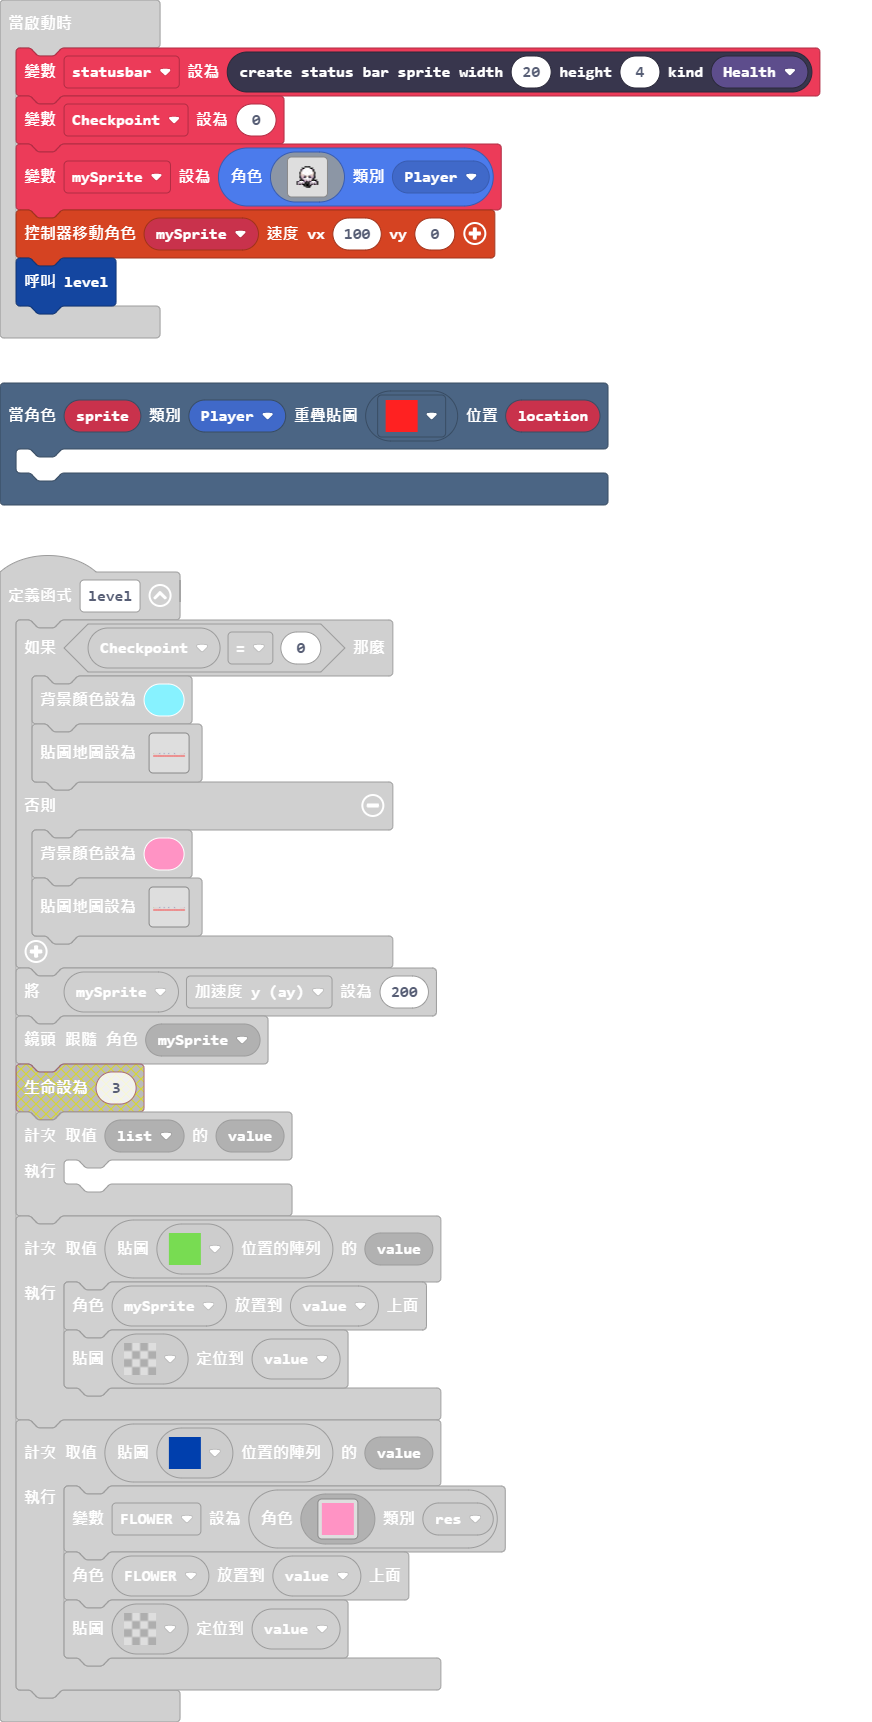
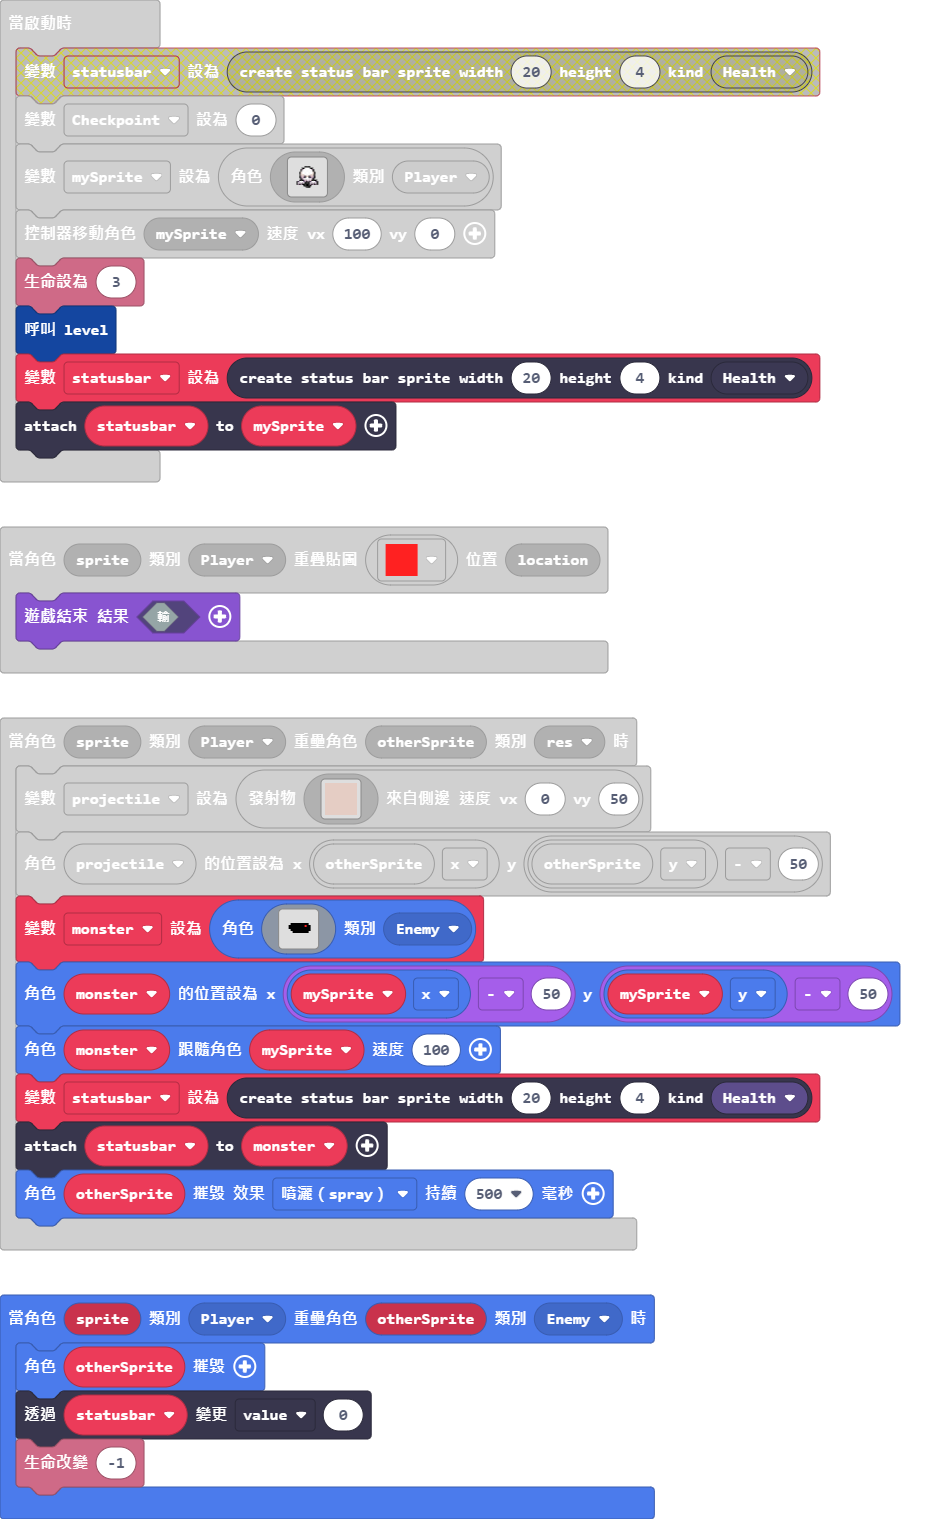
更新 main.blocks, main.ts

diff --git a/main.ts b/main.ts
@@ -48,7 +48,7 @@ function level () {
     }
 }
 scene.onOverlapTile(SpriteKind.Player, assets.tile`myTile3`, function (sprite, location) {
-	
+    game.over(false)
 })
 sprites.onOverlap(SpriteKind.Player, SpriteKind.Projectile, function (sprite, otherSprite) {
     otherSprite.destroy()
@@ -78,13 +78,41 @@ sprites.onOverlap(SpriteKind.Player, SpriteKind.res, function (sprite, otherSpri
         d d d d d d d d d d d d d d d d 
         `, 0, 50)
     projectile.setPosition(otherSprite.x, otherSprite.y - 50)
+    monster = sprites.create(img`
+        . . . . . . . . . . . . . . . . 
+        . . . . . . . . . . . . . . . . 
+        . . . . . . . . . . . . . . . . 
+        . . . . . . . . . . . . . . . . 
+        . . . . . . . . . . . . . . . . 
+        . . . . f f f f f f f f f . . . 
+        . . . f f f f f f f f 2 f f . . 
+        . . . f f f f f f f f f f f . . 
+        . . . . f f f f f f f f f f . . 
+        . . . . . f f f f f f f f . . . 
+        . . . . . . . . . . . . . . . . 
+        . . . . . . . . . . . . . . . . 
+        . . . . . . . . . . . . . . . . 
+        . . . . . . . . . . . . . . . . 
+        . . . . . . . . . . . . . . . . 
+        . . . . . . . . . . . . . . . . 
+        `, SpriteKind.Enemy)
+    monster.setPosition(mySprite.x - 50, mySprite.y - 50)
+    monster.follow(mySprite, 100)
+    statusbar = statusbars.create(20, 4, StatusBarKind.Health)
+    statusbar.attachToSprite(monster)
     otherSprite.destroy()
 })
+sprites.onOverlap(SpriteKind.Player, SpriteKind.Enemy, function (sprite, otherSprite) {
+    otherSprite.destroy()
+    statusbar.value += 0
+    info.changeLifeBy(-1)
+})
+let monster: Sprite = null
 let projectile: Sprite = null
 let FLOWER: Sprite = null
+let statusbar: StatusBarSprite = null
 let mySprite: Sprite = null
 let Checkpoint = 0
-let statusbar = statusbars.create(20, 4, StatusBarKind.Health)
 Checkpoint = 0
 mySprite = sprites.create(img`
     ........................
@@ -113,4 +141,7 @@ mySprite = sprites.create(img`
     ........................
     `, SpriteKind.Player)
 controller.moveSprite(mySprite, 100, 0)
+info.setLife(3)
 level()
+statusbar = statusbars.create(20, 4, StatusBarKind.Health)
+statusbar.attachToSprite(mySprite)
